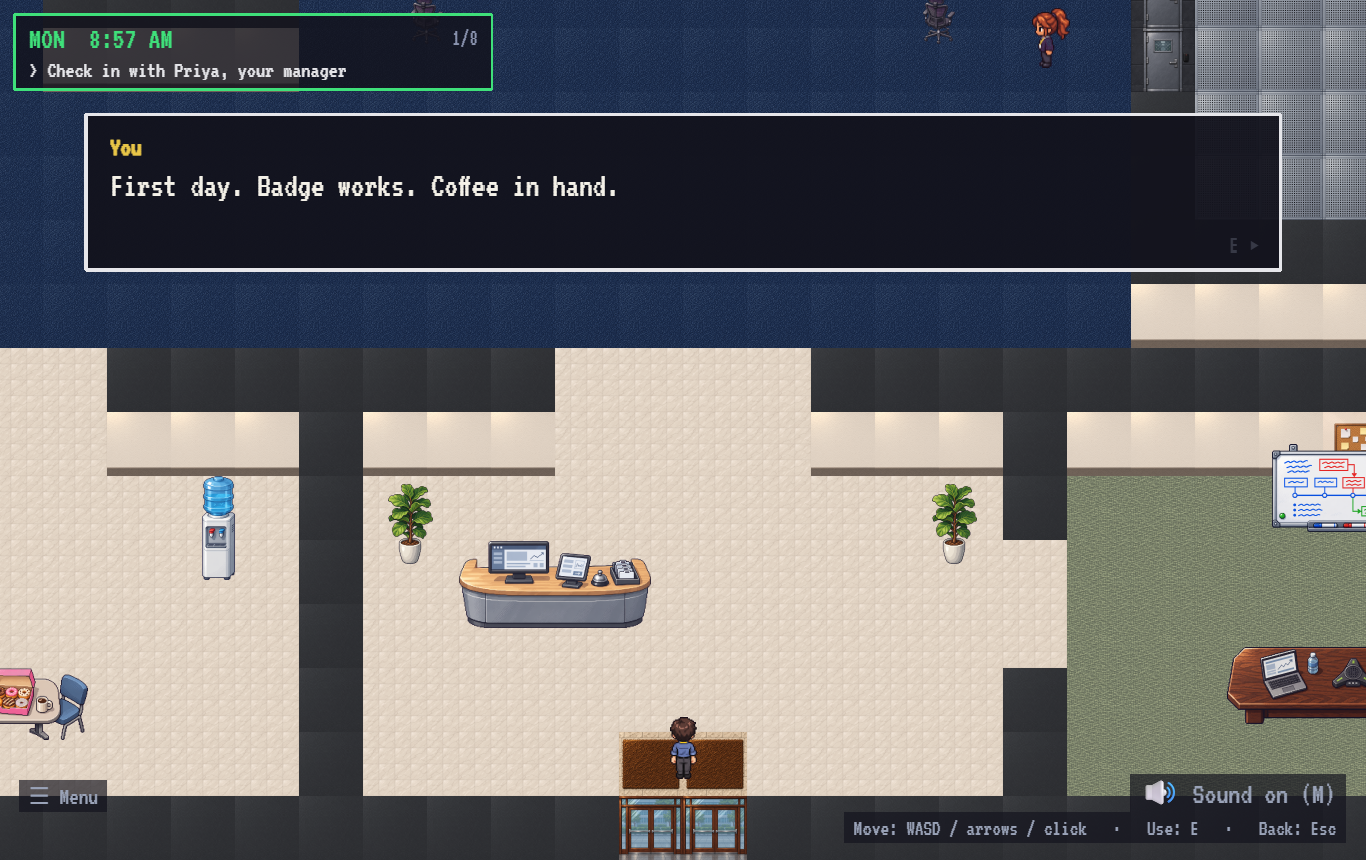
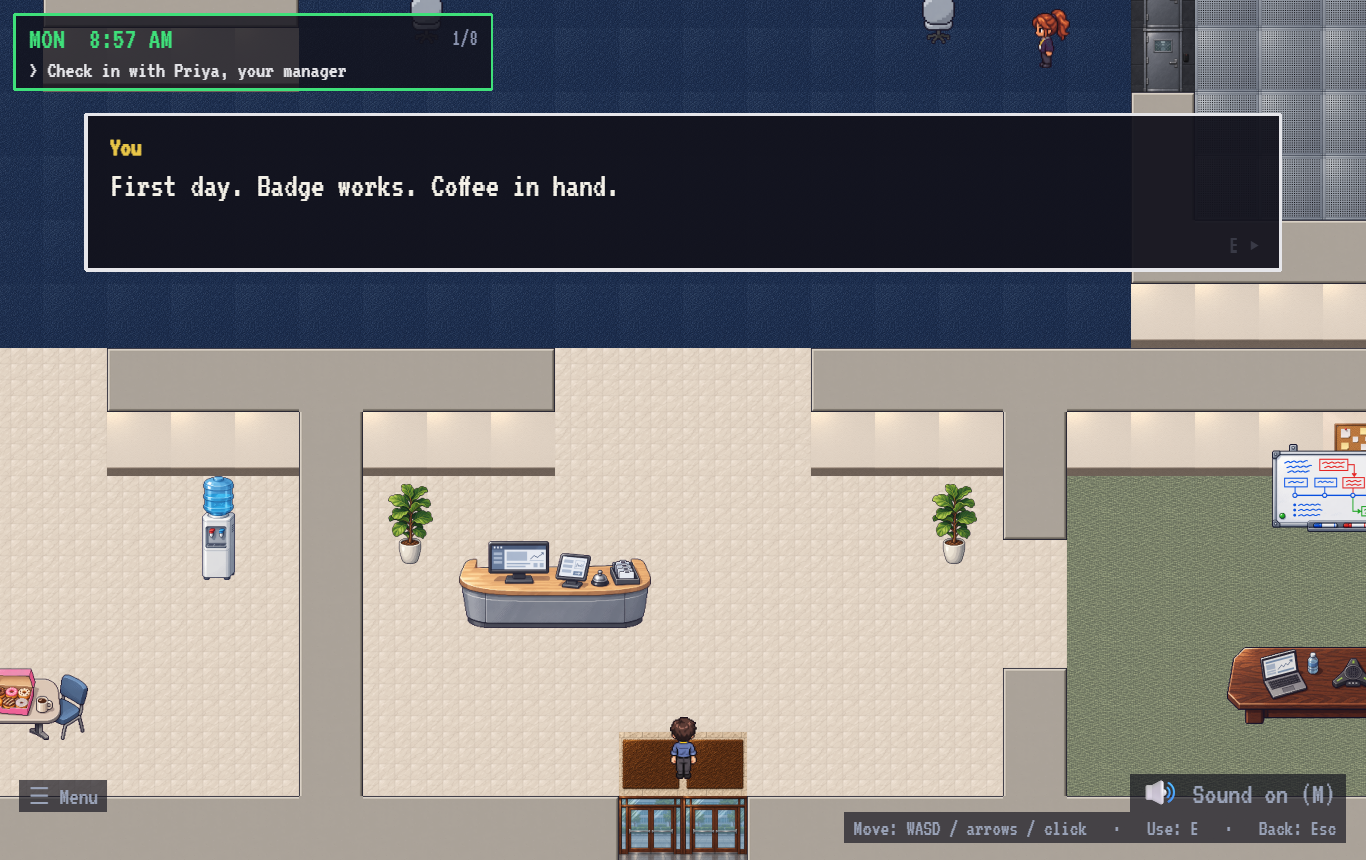
Office art: autotiled wall caps with lit trim, readable chair
- Codex-generated wall cap, wall edge trim and back-view chair (art-src/job-walls.txt)
- process.py builds 16 wall-top variants (N/E/S/W neighbour mask) into tiles-hd.png
- src/art/autotile.js picks the variant per tile; hd.js uses it for the HD layers
- 3x3 tile test in art-src/preview/walltop-tiletest.png, chair test at 1/4 scale
- Re-shot docs/proof/visual and before/after sbs-desktop-floor / sbs-phone-floor

diff --git a/src/art/hd.js b/src/art/hd.js
@@ -3,6 +3,7 @@
 // collision box and object position stays exactly as it was with the 16px procedural art.
 // If a file fails to load, the procedural texture with the same world size is used instead.
 import Phaser from 'phaser';
+import { autotileWallTops } from './autotile.js';
 
 export const HD = 4;
 export const HD_SCALE = 1 / HD;
@@ -63,7 +64,9 @@ export function addHdLayers(scene, map, names, x = 0, y = 0, scale = 1) {
   for (const name of names) {
     const src = map.getLayer(name);
     if (!src) continue;
-    const data = src.data.map((row) => row.map((t) => (t ? t.index : -1)));
+    const first = map.tilesets[0]?.firstgid ?? 1;
+    const raw = src.data.map((row) => row.map((t) => (t ? t.index : -1)));
+    const data = autotileWallTops(raw, first, scene.textures.get('tiles-hd').getSourceImage());
     const hm = scene.make.tilemap({ data, tileWidth: 16 * HD, tileHeight: 16 * HD });
     const ts = hm.addTilesetImage('tiles-hd', 'tiles-hd', 16 * HD, 16 * HD, 0, 0, map.tilesets[0]?.firstgid ?? 1);
     const layer = hm.createLayer(0, ts, x, y).setScale(scale / HD);
@@ -71,3 +74,4 @@ export function addHdLayers(scene, map, names, x = 0, y = 0, scale = 1) {
   }
   return out;
 }
+

diff --git a/src/art/autotile.js b/src/art/autotile.js
@@ -1,0 +1,16 @@
+// Wall tops get trim on every side that does not continue into another wall top (lit top/left bevel, shaded
+// bottom/right bevel, dark outline), so walls read as raised walls instead of flat black blocks.
+// tiles-hd.png holds 16 variants after the base tiles: index TILES.length + mask, mask bits N=1 E=2 S=4 W=8
+// set when that neighbour is also a wall top. Off-map counts as wall (no trim at the map edge).
+export const WALL_TOP = 2;
+export const BASE_TILES = 12;
+export function wallMask(raw, y, x, wall) {
+  const is = (yy, xx) => yy < 0 || yy >= raw.length || xx < 0 || xx >= raw[yy].length || raw[yy][xx] === wall;
+  return (is(y - 1, x) ? 1 : 0) | (is(y, x + 1) ? 2 : 0) | (is(y + 1, x) ? 4 : 0) | (is(y, x - 1) ? 8 : 0);
+}
+export function autotileWallTops(raw, first, img, tile = 64) {
+  const slots = img ? Math.floor(img.width / tile) * Math.floor(img.height / tile) : 0;
+  if (slots < BASE_TILES + 16) return raw; // older tileset without the variants
+  const wall = first + WALL_TOP;
+  return raw.map((row, y) => row.map((t, x) => (t === wall ? first + BASE_TILES + wallMask(raw, y, x, wall) : t)));
+}

diff --git a/tests/autotile.test.js b/tests/autotile.test.js
@@ -1,0 +1,30 @@
+import { test } from 'node:test';
+import assert from 'node:assert/strict';
+import { autotileWallTops, wallMask, BASE_TILES } from '../src/art/autotile.js';
+
+const F = 1; // firstgid
+const W = F + 2; // wall-top
+const img = { width: 512, height: 256 }; // 8 x 4 slots of 64px
+
+test('wall tops become trimmed variants by neighbour mask', () => {
+  const raw = [
+    [F, F, F, F],
+    [F, W, W, F],
+    [F, W, W, F],
+    [F, F + 3, F + 3, F],
+  ];
+  const out = autotileWallTops(raw, F, img);
+  // top-left wall tile: neighbours E and S are walls -> mask 2|4 = 6
+  assert.equal(out[1][1], F + BASE_TILES + 6);
+  assert.equal(out[1][2], F + BASE_TILES + (4 | 8));
+  assert.equal(out[2][1], F + BASE_TILES + (1 | 2));
+  assert.equal(out[2][2], F + BASE_TILES + (1 | 8));
+  assert.equal(out[0][0], F); // non-walls unchanged
+  assert.equal(out[3][1], F + 3);
+});
+
+test('off-map neighbours count as wall; old tilesets are left alone', () => {
+  assert.equal(wallMask([[W]], 0, 0, W), 15);
+  const raw = [[W, W], [F, F]];
+  assert.deepEqual(autotileWallTops(raw, F, { width: 512, height: 128 }), raw);
+});

diff --git a/art-src/process.py b/art-src/process.py
@@ -60,7 +60,7 @@ def fit(im, w, h, pad_bottom=0):
 
 
 def tiles():
-    rows = (len(TILES) + COLS - 1) // COLS
+    rows = (len(TILES) + 16 + COLS - 1) // COLS
     sheet = Image.new('RGBA', (COLS * T, rows * T))
     for i, name in enumerate(TILES):
         im = Image.open(os.path.join(RAW, 'tiles', name + '.png')).convert('RGB')
@@ -68,6 +68,27 @@ def tiles():
             m = im.width // 8
             im = im.crop((m, m, im.width - m, im.height - m))
         sheet.paste(im.resize((T, T), Image.BOX), ((i % COLS) * T, (i // COLS) * T))
+    # Wall-top autotiles: 16 variants after the base tiles (index len(TILES) + mask). Mask bit set = that
+    # neighbour is also wall-top (N=1, E=2, S=4, W=8). Each side WITHOUT a wall-top neighbour gets the trim strip
+    # (dark outline + lit top/left bevel, shaded bottom/right bevel) cut from the Codex wall-edge tile.
+    cap = Image.open(os.path.join(RAW, 'tiles', 'wall-top.png')).convert('RGB')
+    m = cap.width // 8
+    cap = cap.crop((m, m, cap.width - m, cap.height - m)).resize((T, T), Image.BOX)
+    edge = Image.open(os.path.join(RAW, 'tiles', 'wall-edge.png')).convert('RGB').resize((T, T), Image.BOX)
+    k = T // 14  # trim width in texture pixels (about 1 world pixel)
+    for mask in range(16):
+        t = cap.copy()
+        # Strips use only the middle of each side (stretched to full length), so no corner ticks show where
+        # two trimmed tiles sit side by side.
+        if not mask & 1: t.paste(edge.crop((k, 0, T - k, k)).resize((T, k), Image.BOX), (0, 0))
+        if not mask & 4: t.paste(edge.crop((k, T - k, T - k, T)).resize((T, k), Image.BOX), (0, T - k))
+        if not mask & 8: t.paste(edge.crop((0, k, k, T - k)).resize((k, T), Image.BOX), (0, 0))
+        if not mask & 2: t.paste(edge.crop((T - k, k, T, T - k)).resize((k, T), Image.BOX), (T - k, 0))
+        # Re-apply the corners from the edge tile so where two trims meet they join cleanly.
+        for (cx, cy, a, b) in ((0, 0, 1, 8), (T - k, 0, 1, 2), (0, T - k, 4, 8), (T - k, T - k, 4, 2)):
+            if not mask & a and not mask & b: t.paste(edge.crop((cx, cy, cx + k, cy + k)), (cx, cy))
+        i = len(TILES) + mask
+        sheet.paste(t, ((i % COLS) * T, (i // COLS) * T))
     sheet.save(os.path.join(OUT, 'tiles-hd.png'))
     print('tiles-hd.png', sheet.size)
 
